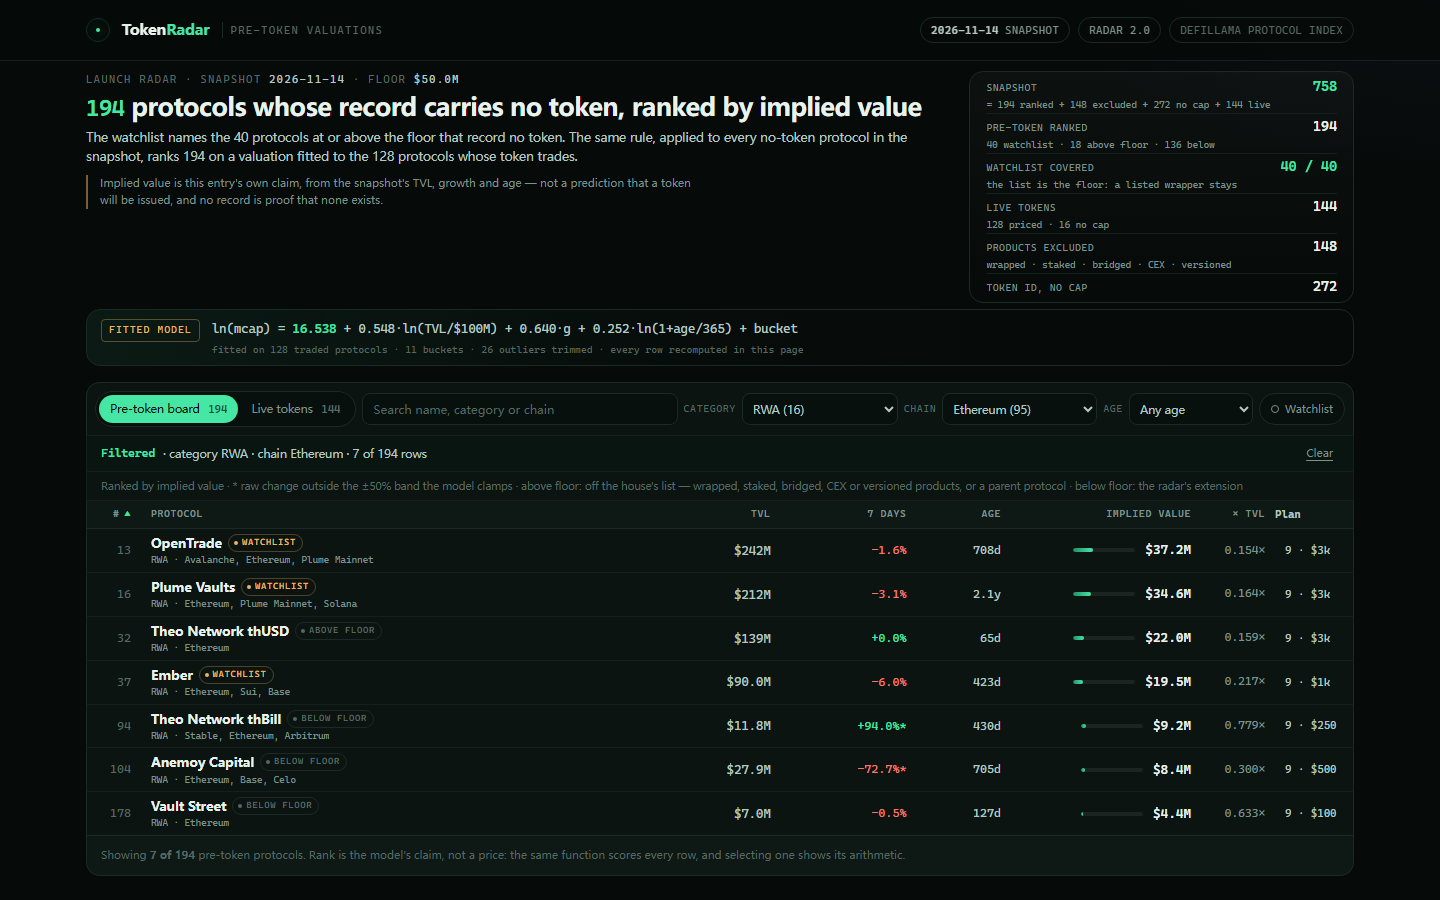
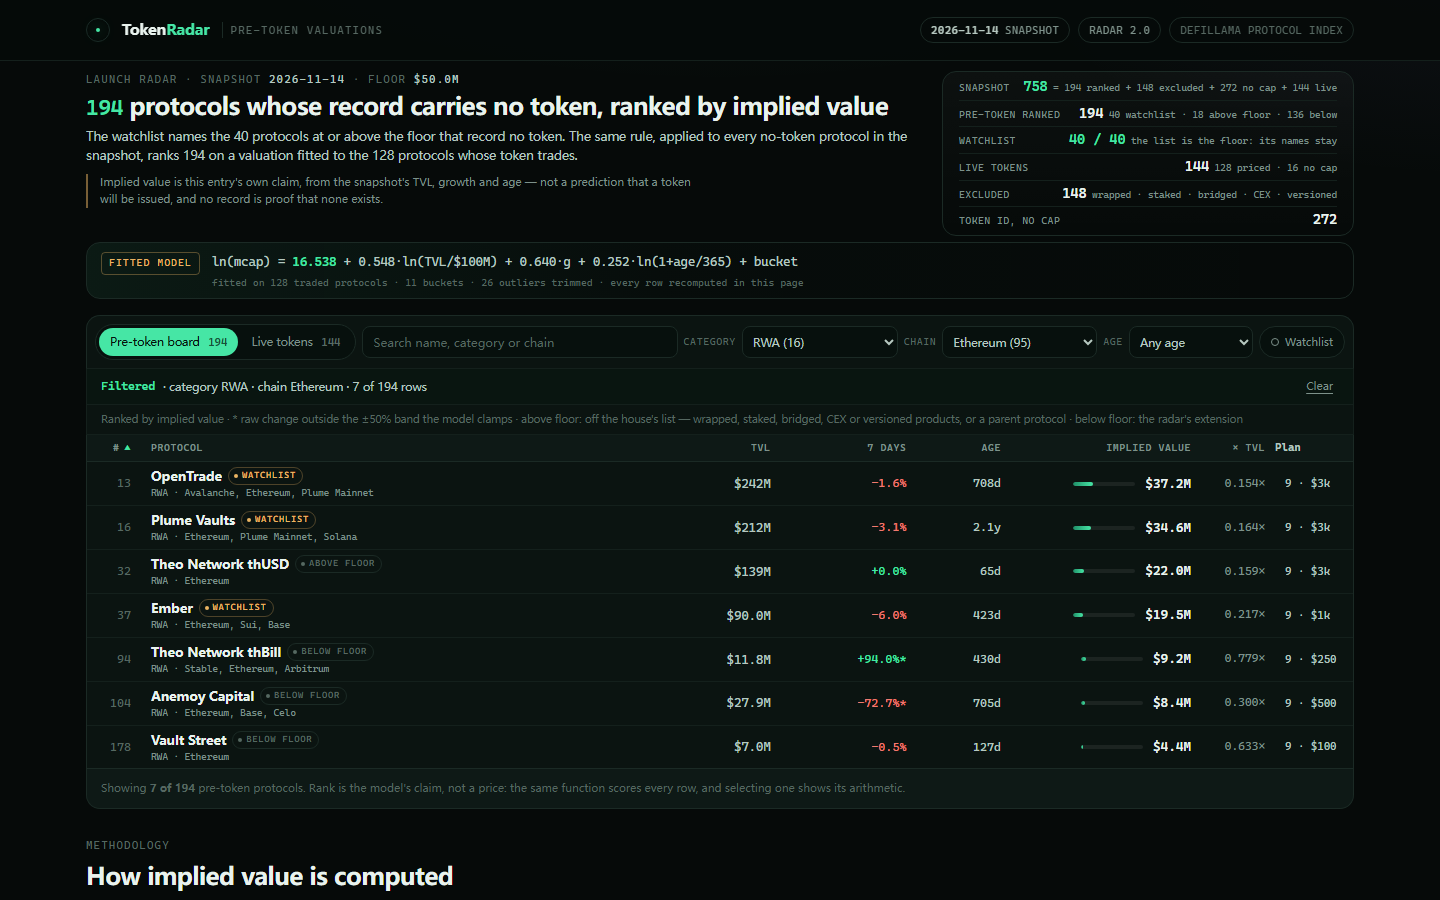
entry: v7 — the USDD detail, the 250% ratio, the floor note, 11 rows

diff --git a/dashboard/app.js b/dashboard/app.js
@@ -1,5 +1,5 @@
-// Token Radar — window.RADAR (main.ts) carries the snapshot, model, board and live rows; every value is
-// recomputed from the fitted coefficients and checked against board.json's.
+// Token Radar — window.RADAR (main.ts) has the snapshot, model, board and live rows; every value is
+// recomputed from the coefficients and checked against board.json's.
 (function () {
   'use strict';
   var D = window.RADAR;
@@ -139,23 +139,24 @@
     document.getElementById('tab-live-count').textContent = D.live_size;
     document.getElementById('foot-source').textContent = D.source;
     document.getElementById('foot-scope').textContent =
-      'Floor ' + usdExact(D.floor_usd) + ' · ' + D.watchlist_size + ' watchlist protocols · ' + (D.board_size - D.watchlist_size) +
-      ' more no-token · ' + D.live_size + ' live · ' + D.as_of + '.';
+      'Floor ' + usdExact(D.floor_usd) + ' · ' + D.watchlist_size + ' watchlist · ' + (D.board_size - D.watchlist_size) +
+      ' more · ' + D.live_size + ' live · ' + D.as_of + '.';
     var stats = document.getElementById('hero-stats');
     clear(stats);
     var A = D.audit;
     [
       ['Snapshot', whole(A.total), '= ' + A.ranked + ' ranked + ' + A.excluded + ' excluded + ' + A.token_no_cap + ' no cap + ' + A.live + ' live', 'mint'],
       ['Pre-token ranked', whole(A.ranked), A.watchlist + ' watchlist · ' + A.above_floor_others + ' above floor · ' + A.below_floor + ' below'],
-      ['Watchlist covered', D.watchlist_size + ' / ' + D.watchlist_size, 'the list is the floor: a listed wrapper stays', 'mint'],
+      ['Watchlist', D.watchlist_size + ' / ' + D.watchlist_size, "the list is the floor: its names stay", 'mint'],
       ['Live tokens', whole(A.live), A.live_priced + ' priced · ' + (A.live - A.live_priced) + ' no cap'],
-      ['Products excluded', whole(A.excluded), 'wrapped · staked · bridged · CEX · versioned'],
+      ['Excluded', whole(A.excluded), 'wrapped · staked · bridged · CEX · versioned'],
       ['Token id, no cap', whole(A.token_no_cap)],
     ].forEach(function (s) {
       var row = el('div', 'fact' + (s[3] ? ' ' + s[3] : ''));
       row.appendChild(el('span', null, s[0]));
-      row.appendChild(el('b', null, s[1]));
-      if (s[2]) row.appendChild(el('em', null, s[2]));
+      var value = el('b', null, s[1]);
+      if (s[2]) value.appendChild(el('em', null, ' ' + s[2]));
+      row.appendChild(value);
       stats.appendChild(row);
     });
     var coef = D.model.coefficients;
@@ -395,7 +396,7 @@
     body.appendChild(fragment);
     var foot = document.getElementById('board-foot');
     clear(foot);
-    foot.appendChild(document.createTextNode("The live set is the model's own exam: these " + D.live_size + " protocols record a market cap (" + (D.audit.live - D.audit.live_priced) + " without a positive cap, marked), so the cap is fact and the fitted value is the model's. " +
+    foot.appendChild(document.createTextNode("The live set is the model's own exam: these " + D.live_size + " protocols record a market cap (" + (D.audit.live - D.audit.live_priced) + " without a positive cap, marked), so the cap is fact, the fitted value the model's. " +
       "Sorted by how close the fit came: a ratio near 1.00 means the model priced the record like the market did; the outliers are why the median out-of-sample error is " + M.validation.median_factor + "×."));
   }
   function openDetail(slug) {

diff --git a/lib/farm.ts b/lib/farm.ts
@@ -156,7 +156,7 @@ function positionFor(input: FarmInput, capital: number, chain: string): string {
   if (category === 'Farm' || category === 'Governance Incentives') return `Stake ${usd(capital)} in ${name}'s farm on ${chain}, then claim and restake the rewards each week.`;
   if (category === 'Launchpad') return `Hold ${usd(capital)} ready in a ${name} account on ${chain} and join one launch a month rather than every launch.`;
   if (input.bucket === 'Lending') return `Supply ${usd(capital)} of USDC to ${name}'s ${chain} market and borrow 30% of it against the receipt if you want the extra exposure.`;
-  if (input.bucket === 'Stablecoin & CDP') return `Open a ${name} vault on ${chain}, deposit ${usd(capital)} of collateral and mint ${usd(capital * 0.4)} of its stablecoin against it, keeping the ratio above 200%.`;
+  if (input.bucket === 'Stablecoin & CDP') return `Open a ${name} vault on ${chain}, deposit ${usd(capital)} of collateral and mint ${usd(capital * 0.4)} of its stablecoin against it, keeping the collateral ratio at 250%.`;
   if (input.bucket === 'DEX') return `Provide ${usd(capital)} of liquidity to ${name}'s deepest USDC pair on ${chain}: 60% USDC and 40% the volatile side, then stake the LP receipt if the protocol allows it.`;
   if (input.bucket === 'Yield') return `Deposit ${usd(capital)} of USDC into ${name}'s largest vault on ${chain} and keep the vault shares in the farming wallet.`;
   if (input.bucket === 'Curators') return `Deposit ${usd(capital)} of USDC into the ${name} vault on ${chain} whose curator, fee and allocation are published, and keep the shares.`;
@@ -171,7 +171,7 @@ function positionFor(input: FarmInput, capital: number, chain: string): string {
 function guardrailFor(input: FarmInput, hold: number): string {
   const name = input.name;
   if (input.bucket === 'Lending') return `Keep the health factor above 2.0 and set a price alert at 1.6; a liquidation costs more than any likely launch reward.`;
-  if (input.bucket === 'Stablecoin & CDP') return `Add collateral if the ratio falls under 180%, and repay part of the minted stablecoin instead of selling it into a thin market.`;
+  if (input.bucket === 'Stablecoin & CDP') return `Add collateral if the ratio falls under 200%, and repay part of the minted stablecoin instead of selling it into a thin market.`;
   if (input.bucket === 'DEX') return `If the pool is a concentrated range, set it to 15% either side of the price and rebalance when price leaves; a full range earns less and needs no attention.`;
   if (input.bucket === 'Yield') return `Read the vault's fee and its withdrawal terms first; a lock longer than ${hold} days defeats the plan.`;
   if (input.bucket === 'Curators') return `Split the deposit across two ${name} vaults if it runs more than one, and read the curator fee and the withdrawal queue before you commit.`;

diff --git a/dashboard/app.css b/dashboard/app.css
@@ -17,7 +17,7 @@ body {
     radial-gradient(820px 460px at 102% -4%, rgba(157, 140, 245, 0.07), transparent 58%), var(--bg);
 }
 h1, h2, h3 { margin: 0; letter-spacing: -0.02em; text-wrap: balance; }
-h1 { font-size: 25px; line-height: 1.15; font-weight: 620; }
+h1 { font-size: 24px; line-height: 1.15; font-weight: 620; }
 h2 { font-size: 24px; line-height: 1.18; font-weight: 600; }
 h3 { font-size: 13px; line-height: 1.3; font-weight: 600; letter-spacing: 0.06em; text-transform: uppercase; color: var(--muted); }
 p { margin: 0; }
@@ -45,7 +45,7 @@ a { color: var(--mint); text-decoration: none; }
 
 /* hero */
 main { max-width: 1340px; margin: 0 auto; padding: 0 36px; }
-.hero { display: grid; grid-template-columns: minmax(0, 1.55fr) minmax(300px, 0.7fr); gap: 32px; padding: 10px 0 6px; align-items: start; }
+.hero { display: grid; grid-template-columns: minmax(0, 1.5fr) minmax(320px, 0.75fr); gap: 32px; padding: 10px 0 6px; align-items: start; }
 .eyebrow { font-family: var(--mono); font-size: 10.5px; letter-spacing: 0.14em; text-transform: uppercase; color: var(--faint); }
 .eyebrow span { color: var(--ink-2); }
 .hero h1 { margin-top: 6px; }
@@ -56,8 +56,8 @@ main { max-width: 1340px; margin: 0 auto; padding: 0 36px; }
 .fact { display: grid; grid-template-columns: 1fr auto; gap: 1px 10px; padding: 2px 0; border-bottom: 1px solid var(--line-2); align-items: baseline; }
 .fact:last-child { border-bottom: 0; }
 .fact span { font-family: var(--mono); font-size: 9.5px; letter-spacing: 0.08em; text-transform: uppercase; color: var(--muted); }
-.fact b { font-family: var(--mono); font-size: 14px; font-weight: 500; letter-spacing: -0.01em; }
-.fact em { grid-column: 1 / -1; font-family: var(--mono); font-size: 9.5px; line-height: 1.3; color: var(--muted); letter-spacing: 0; }
+.fact b { font-family: var(--mono); font-size: 14px; font-weight: 500; letter-spacing: -0.01em; white-space: nowrap; }
+.fact em { font-family: var(--mono); font-size: 9.5px; font-weight: 400; color: var(--muted); letter-spacing: 0; }
 .fact.mint b { color: var(--mint); }
 
 /* model strip */
